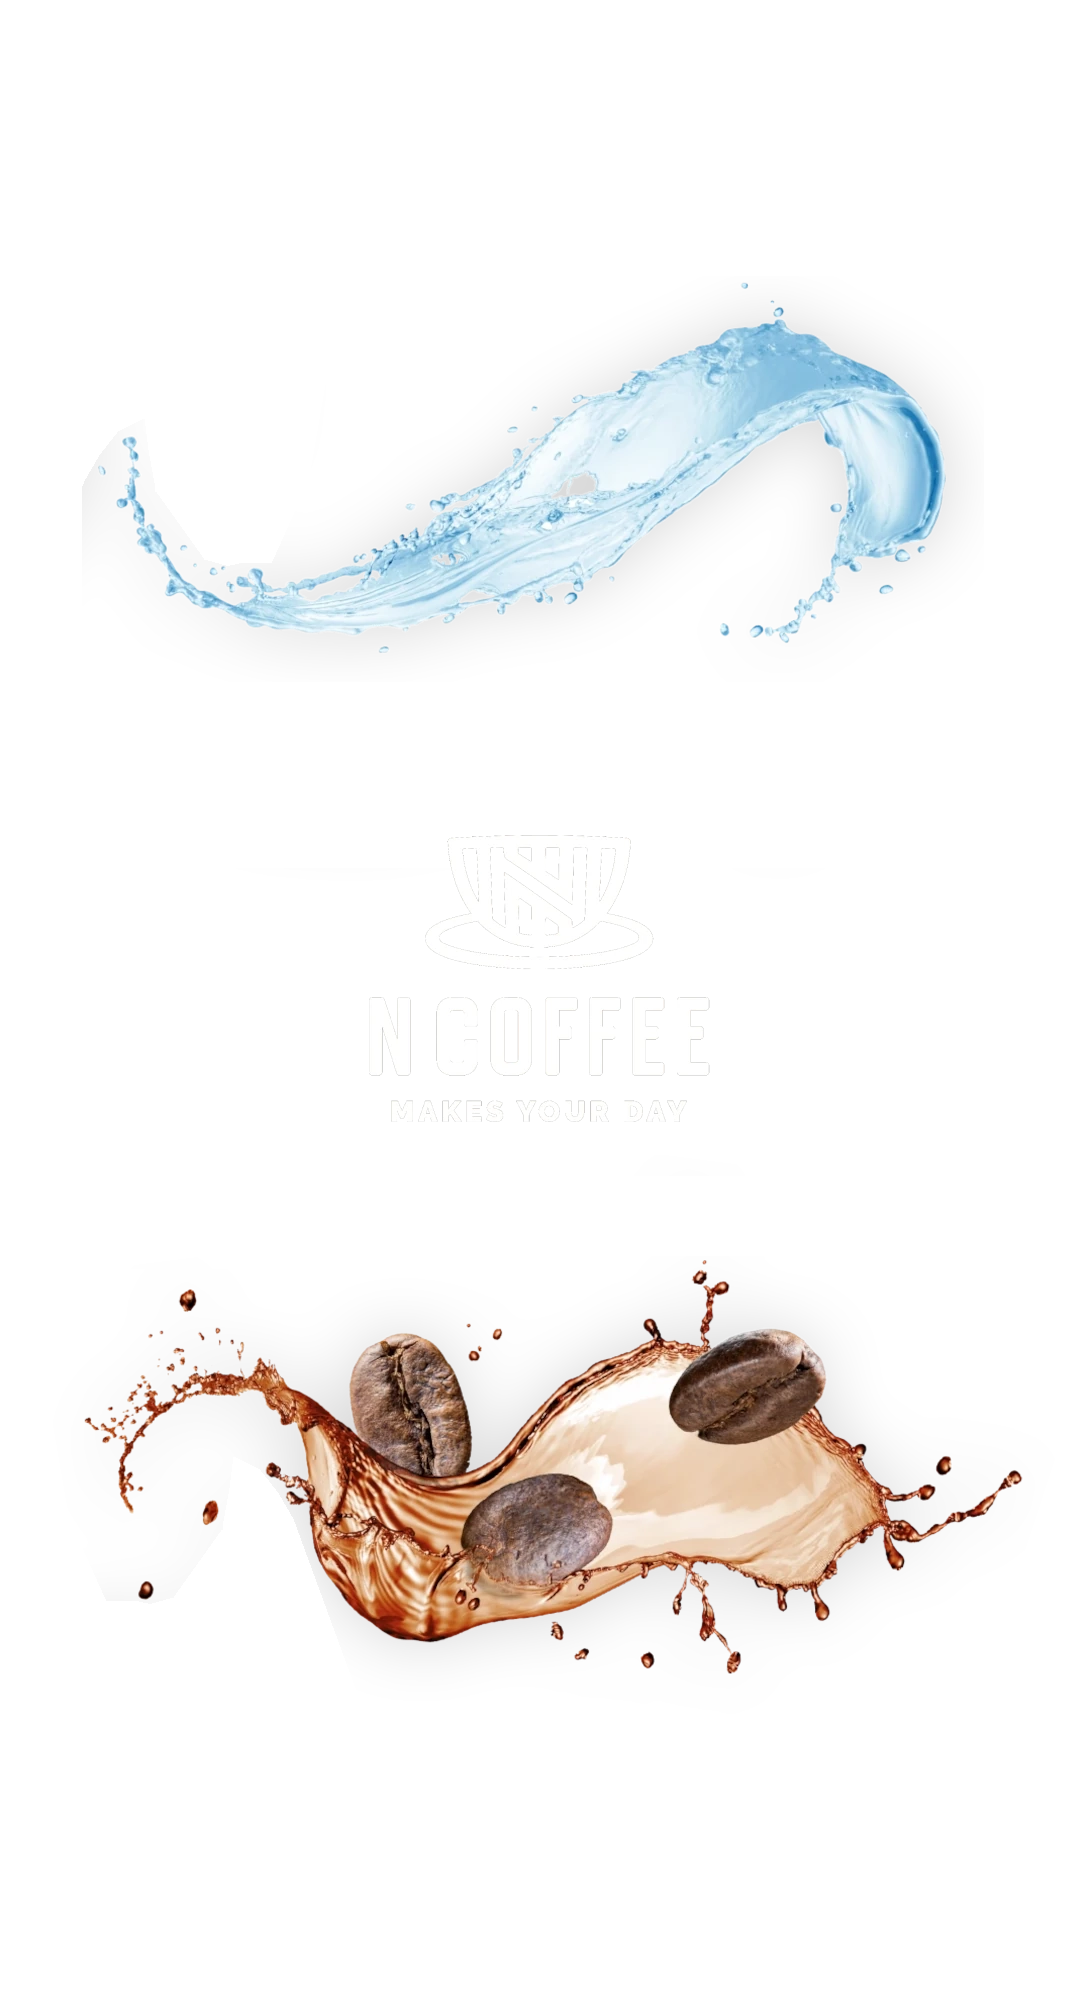
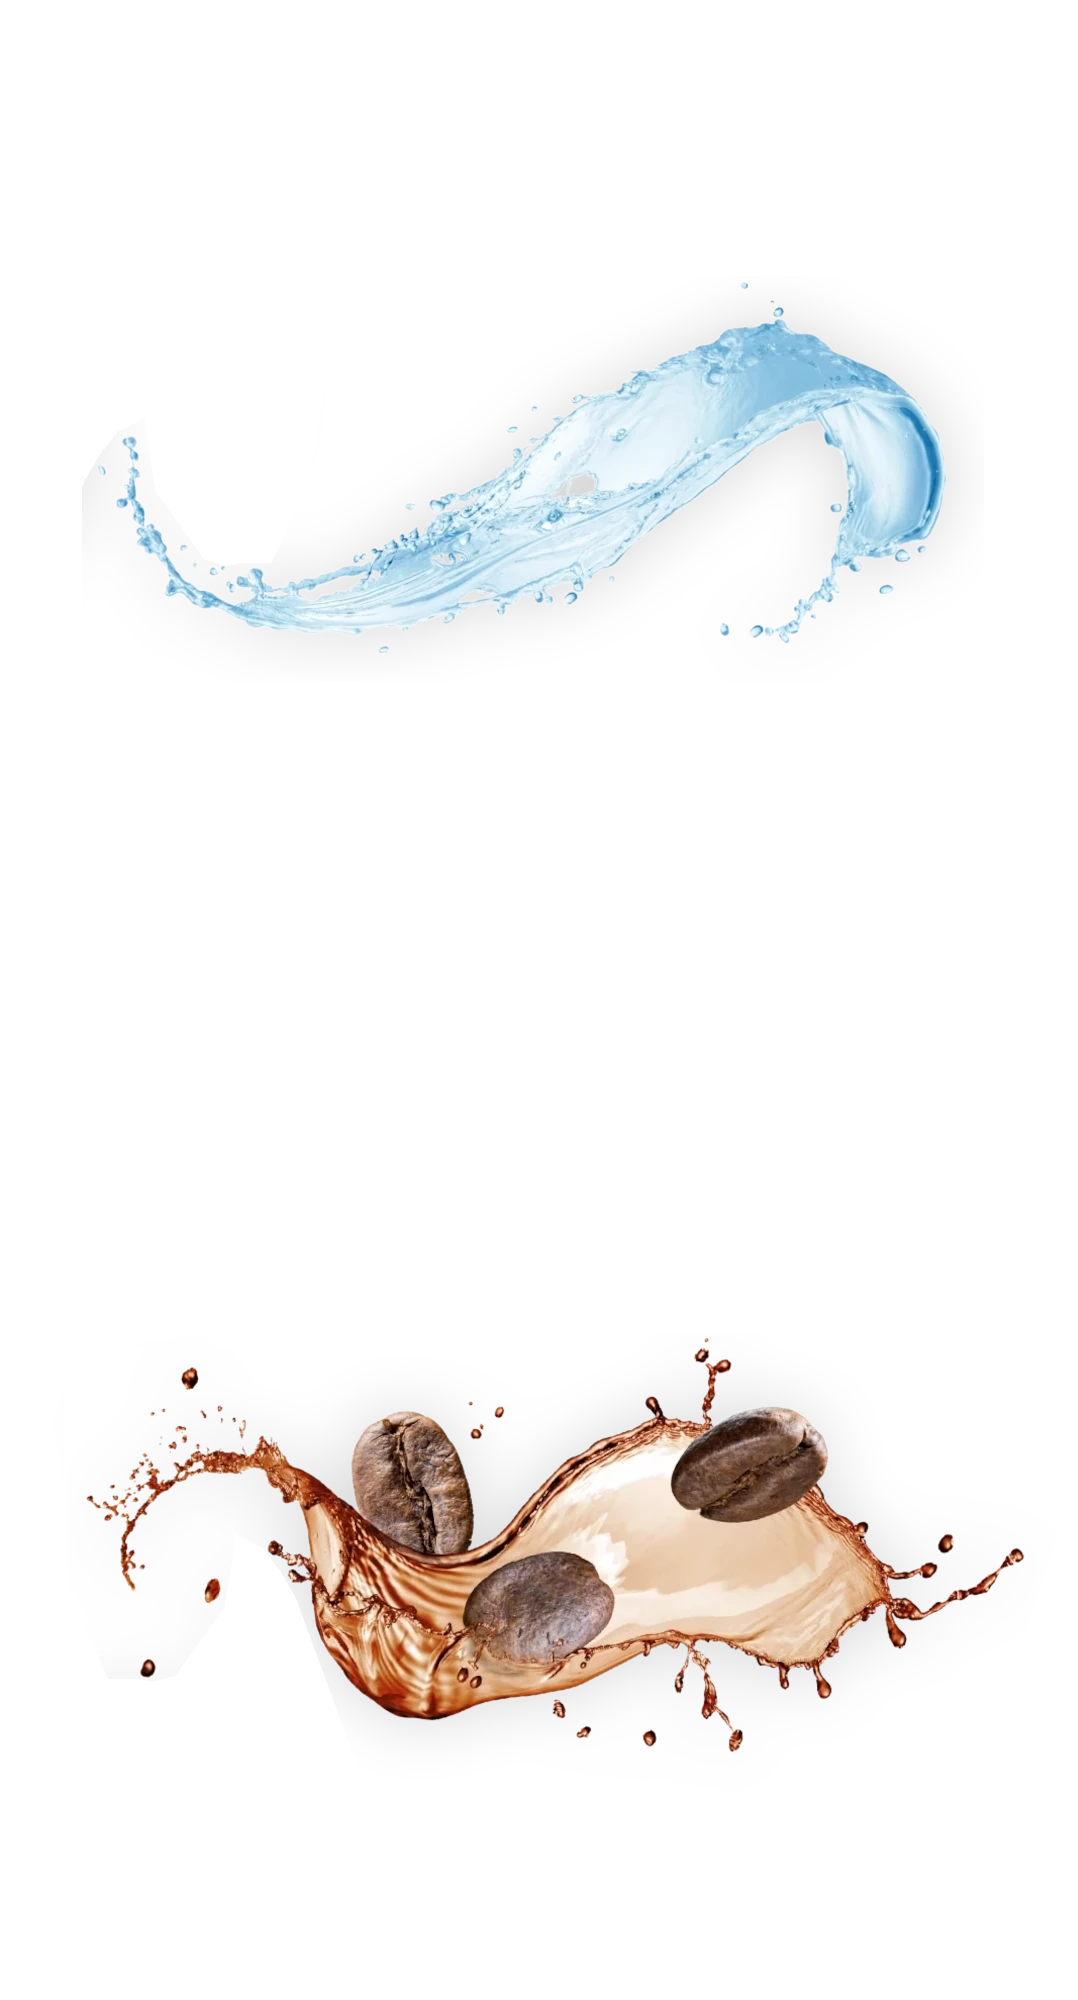
add animation for startpage

Changed region(s): [[0.0918, 0.62, 0.949, 0.868], [0.9184, 0.713, 0.949, 0.744]]

diff --git a/src/app/page.tsx b/src/app/page.tsx
@@ -1,15 +1,44 @@
-import Image from 'next/image'
-import Link from 'next/link'
+'use client'
+
+import { motion } from 'framer-motion';
+import { useEffect, useState } from 'react';
+import Image from 'next/image';
+import Link from 'next/link';
+import Logo from '@/../public/logoTurkis.webp';
 
 export default function Home() {
+  const [loaded, setLoaded] = useState(false);
+
+  useEffect(() => {
+    const timeoutId = setTimeout(() => {
+      setLoaded(true);
+    }, 2200);
+
+    return () => clearTimeout(timeoutId);
+  }, []);
+
   return (
-    <div className='bg-[radial-gradient(ellipse_at_center,_var(--tw-gradient-stops))] from-white to-nbluehome'>
-        <div className="homePageLogoVertical sm:homePageLogoHorizontal w-screen flex items-center justify-center  ">
-          <main className=' z-20 h-screen w-10/12 flex xs:flex-col md:flex-row xs:items-center xs:justify-between md:items-end md:justify-around '>
-            <Link href="water" className='xs:text-4xl md:text-7xl tracking-wider text-white font-black xs:m-12 md:m-24 hover:scale-110 transition' >woda</Link>
-            <Link href="coffee" className='xs:text-4xl  md:text-7xl tracking-wider text-white font-black xs:m-12 md:m-24 hover:scale-110 transition'>kawa</Link>
-          </main>
-        </div>
+    <>
+     <motion.div 
+    className={`z-30 absolute top-0 left-0 w-screen h-screen flex justify-center items-center transition-opacity `}
+    style={{display: loaded ? 'none' : 'flex'}}
+    initial={{ opacity: 1 , background: 'black'}}
+    animate={{ opacity: 0 }}
+    transition={{duration: 2}}
+    >
+      <Image src={Logo} alt="logo" width={200} height={200} className='' />
+    </motion.div>
+    <div
+      className={`bg-[radial-gradient(ellipse_at_center,_var(--tw-gradient-stops))] from-white to-nbluehome `}>
+      <div className="homePageLogoVertical sm:homePageLogoHorizontal h-screen w-screen flex items-center justify-center ">
+        <main className='z-20 h-screen w-10/12 flex xs:flex-col md:flex-row xs:items-center xs:justify-center md:items-end md:justify-around'>
+          <Link href="water" className='xs:text-5xl md:text-7xl tracking-wider text-white font-black xs:m-16 md:m-24 hover:scale-110 transition'>woda</Link>
+          <Link href="coffee" className='xs:text-5xl  md:text-7xl tracking-wider text-white font-black xs:m-16 md:m-24 hover:scale-110 transition'>kawa</Link>
+        </main>
       </div>
-  )
+    </div>
+   
+    </>
+  );
 }
+
